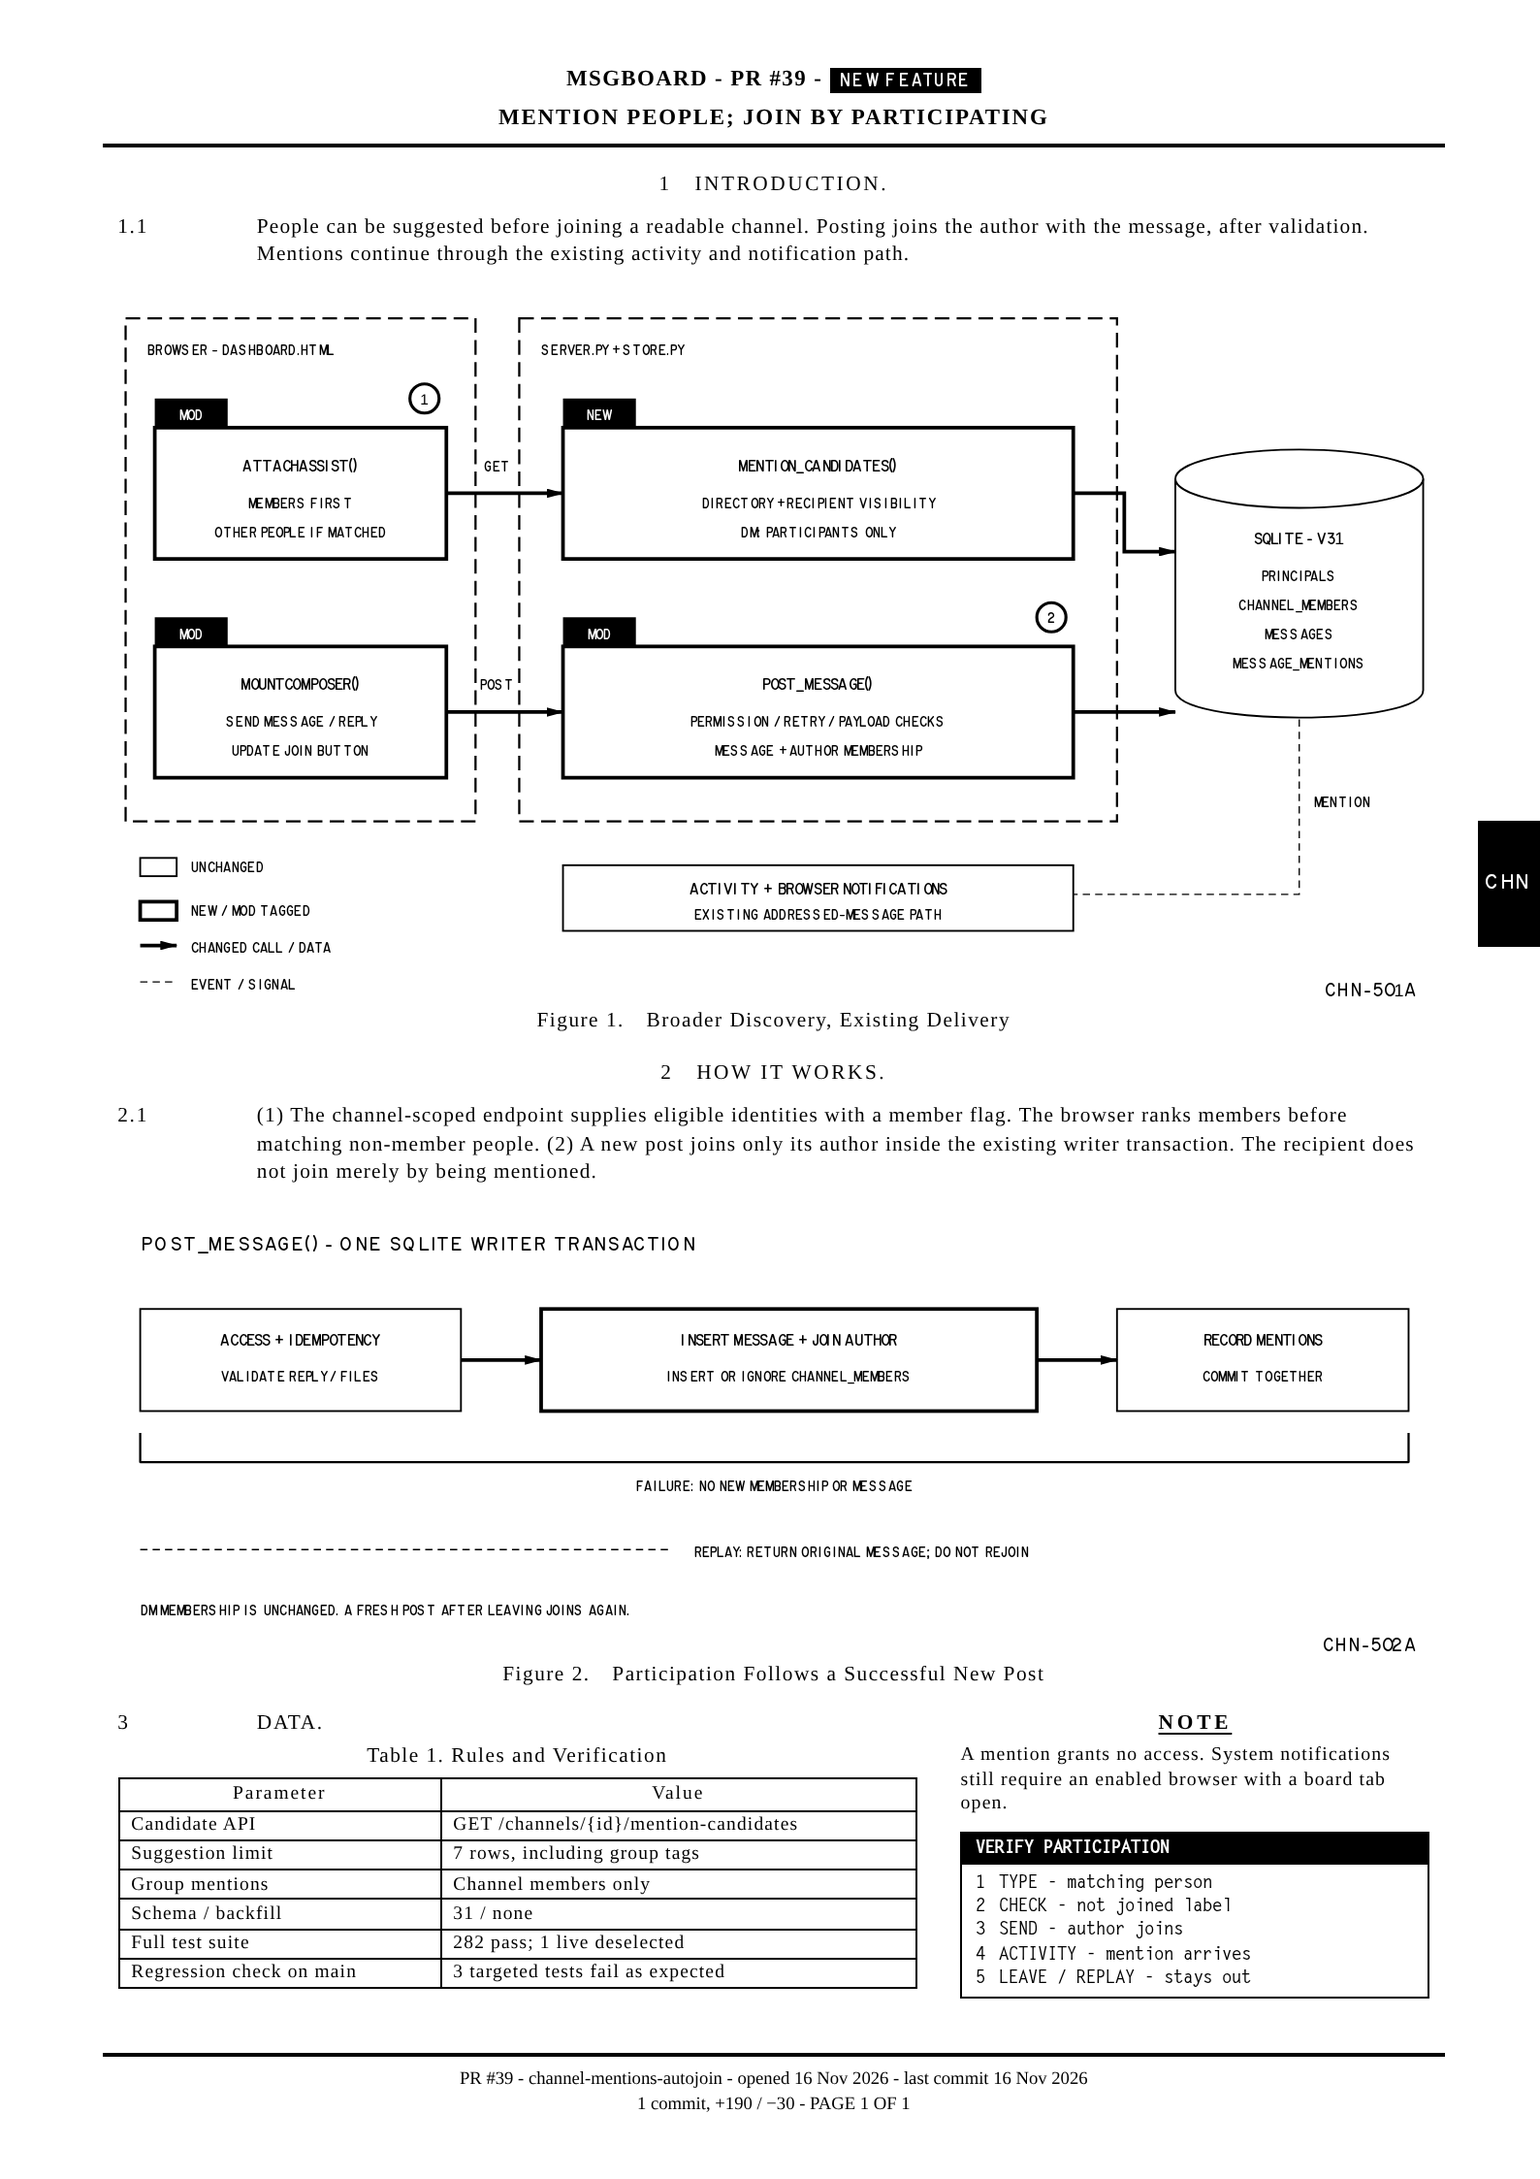
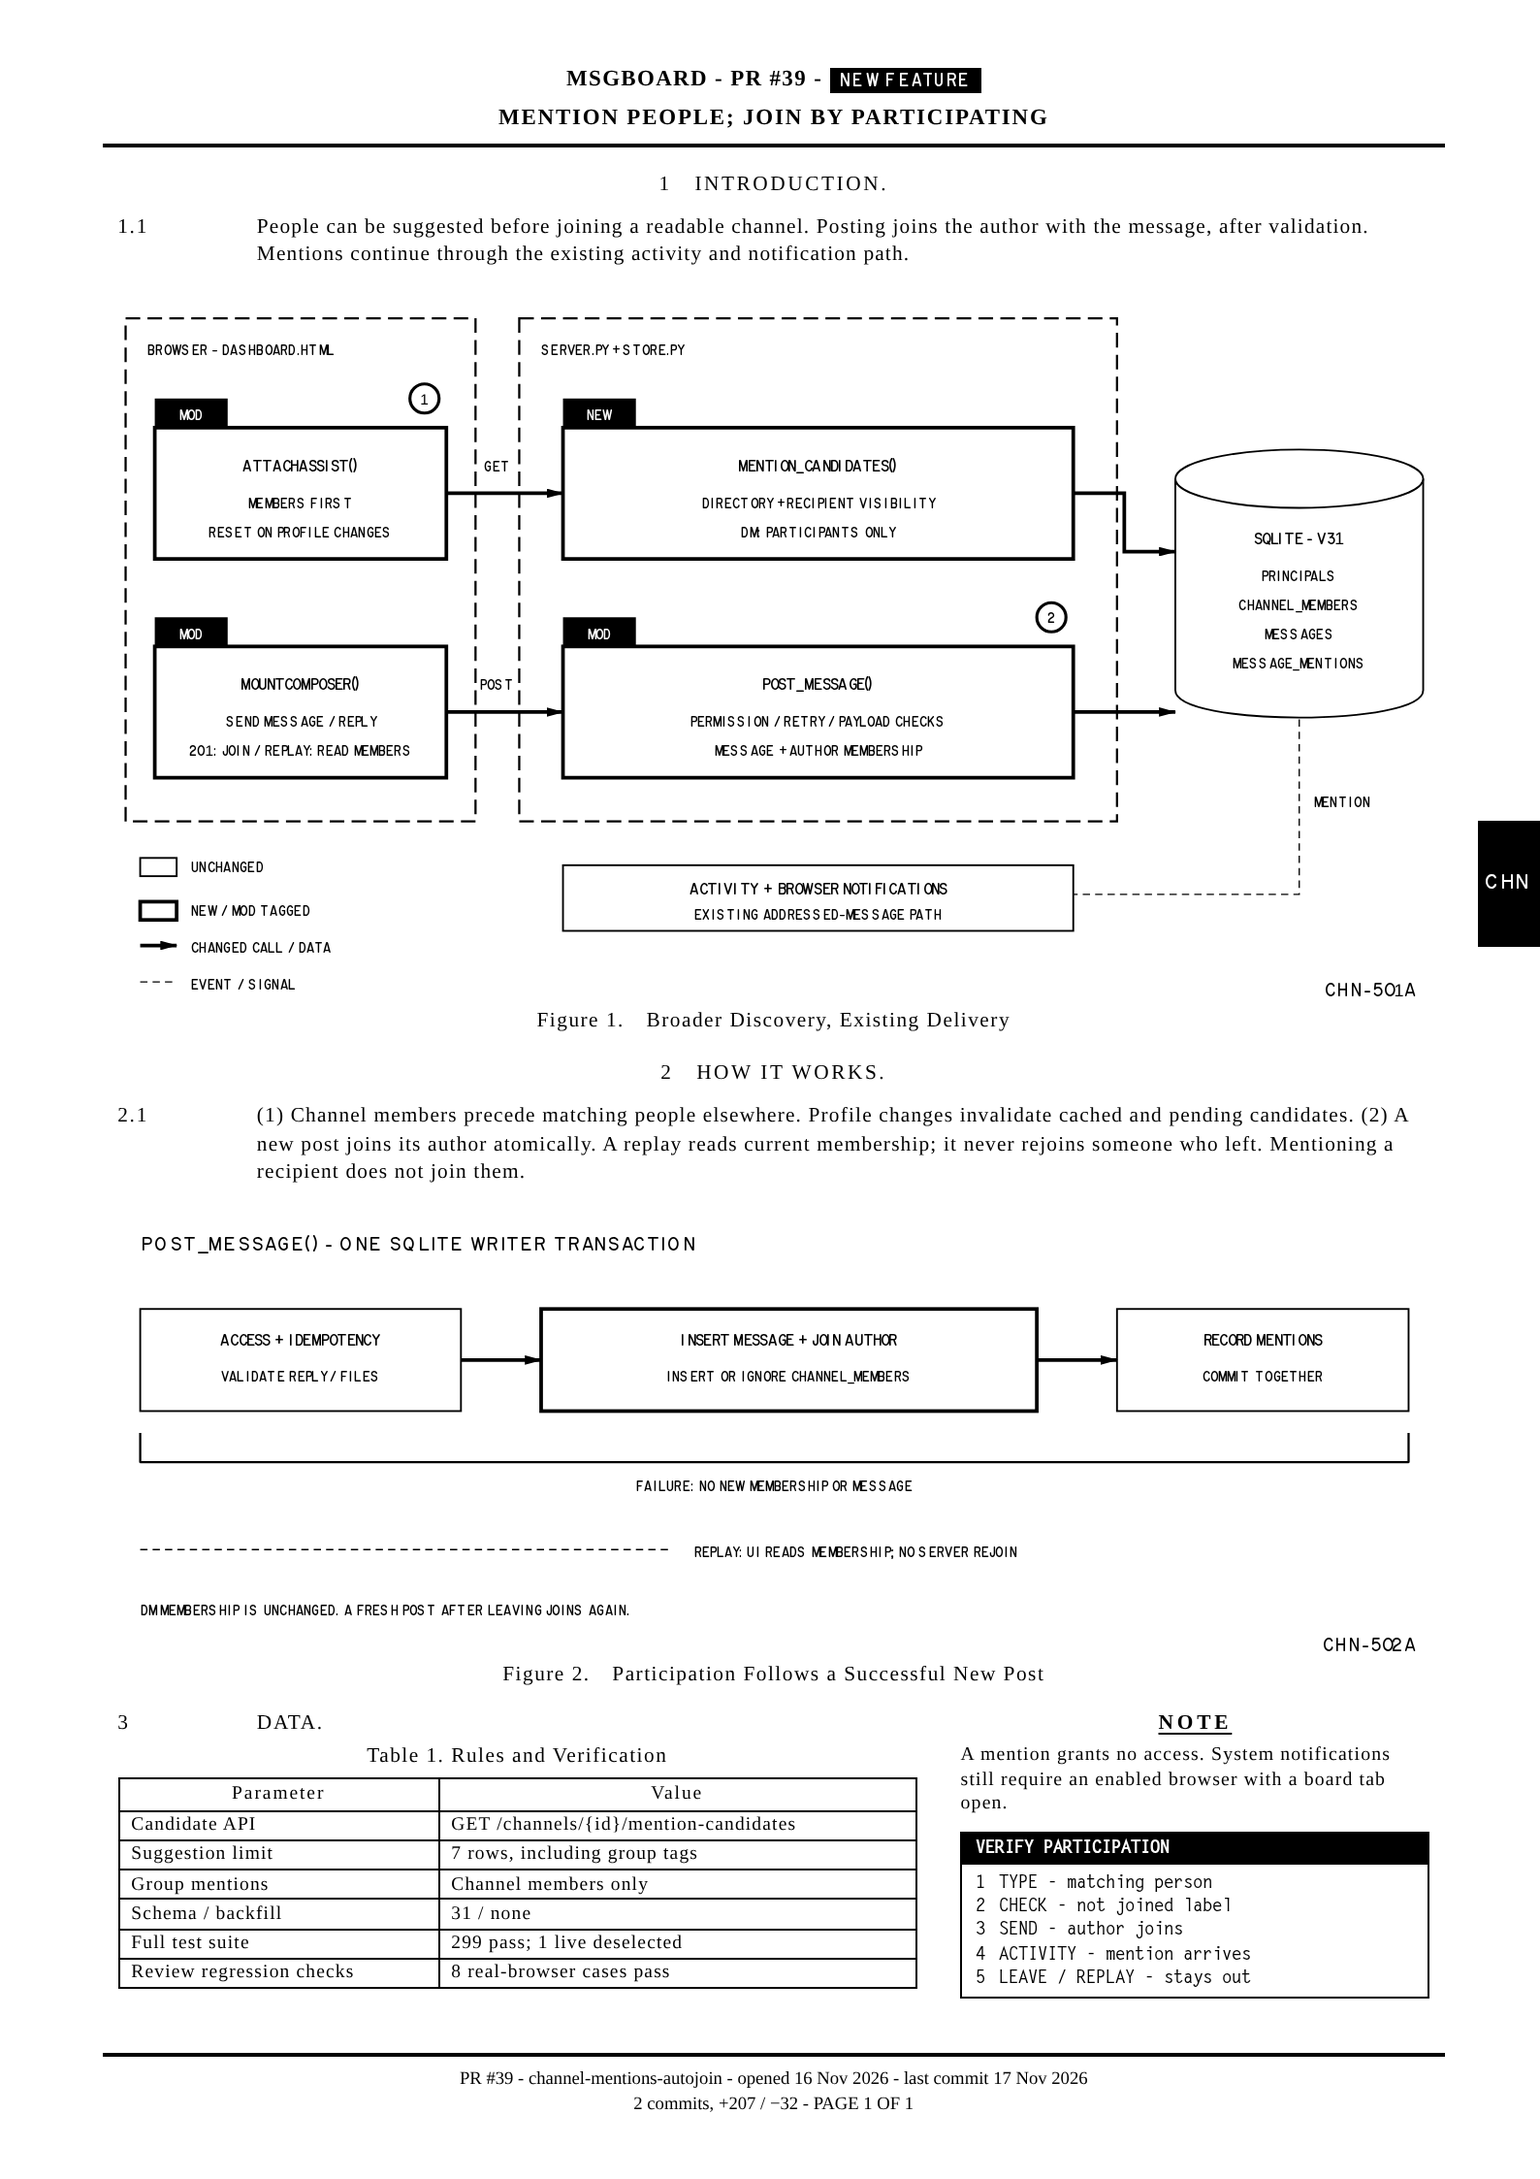
Update PR 39 diagram and browser regressions after review

diff --git a/participation-artifacts/pr-39.html b/participation-artifacts/pr-39.html
@@ -154,13 +154,13 @@
 <rect class="panel" x="1" y="4" width="48" height="69"/><text class="lbl-s" x="4" y="9">BROWSER - DASHBOARD.HTML</text>
 <rect class="panel" x="55" y="4" width="82" height="69"/><text class="lbl-s" x="58" y="9">SERVER.PY + STORE.PY</text>
 <rect class="mod" x="5" y="19" width="40" height="18"/><rect class="tag" x="5" y="15" width="10" height="4"/><text class="lbl-s wt" x="10" y="18" text-anchor="middle">MOD</text>
-<text class="lbl" x="25" y="25" text-anchor="middle">ATTACHASSIST()</text><text class="lbl-s" x="25" y="30" text-anchor="middle">MEMBERS FIRST</text><text class="lbl-s" x="25" y="34" text-anchor="middle">OTHER PEOPLE IF MATCHED</text>
+<text class="lbl" x="25" y="25" text-anchor="middle">ATTACHASSIST()</text><text class="lbl-s" x="25" y="30" text-anchor="middle">MEMBERS FIRST</text><text class="lbl-s" x="25" y="34" text-anchor="middle">RESET ON PROFILE CHANGES</text>
 <circle class="of" cx="42" cy="15" r="2"/><text class="lbl-s" x="42" y="15.8" text-anchor="middle">1</text>
 <rect class="mod" x="61" y="19" width="70" height="18"/><rect class="tag" x="61" y="15" width="10" height="4"/><text class="lbl-s wt" x="66" y="18" text-anchor="middle">NEW</text>
 <text class="lbl" x="96" y="25" text-anchor="middle">MENTION_CANDIDATES()</text><text class="lbl-s" x="96" y="30" text-anchor="middle">DIRECTORY + RECIPIENT VISIBILITY</text><text class="lbl-s" x="96" y="34" text-anchor="middle">DM: PARTICIPANTS ONLY</text>
 <path class="flow" d="M45 28 H61"/><text class="lbl-s" x="52" y="25" text-anchor="middle">GET</text>
 <rect class="mod" x="5" y="49" width="40" height="18"/><rect class="tag" x="5" y="45" width="10" height="4"/><text class="lbl-s wt" x="10" y="48" text-anchor="middle">MOD</text>
-<text class="lbl" x="25" y="55" text-anchor="middle">MOUNTCOMPOSER()</text><text class="lbl-s" x="25" y="60" text-anchor="middle">SEND MESSAGE / REPLY</text><text class="lbl-s" x="25" y="64" text-anchor="middle">UPDATE JOIN BUTTON</text>
+<text class="lbl" x="25" y="55" text-anchor="middle">MOUNTCOMPOSER()</text><text class="lbl-s" x="25" y="60" text-anchor="middle">SEND MESSAGE / REPLY</text><text class="lbl-s" x="25" y="64" text-anchor="middle">201: JOIN / REPLAY: READ MEMBERS</text>
 <rect class="mod" x="61" y="49" width="70" height="18"/><rect class="tag" x="61" y="45" width="10" height="4"/><text class="lbl-s wt" x="66" y="48" text-anchor="middle">MOD</text>
 <text class="lbl" x="96" y="55" text-anchor="middle">POST_MESSAGE()</text><text class="lbl-s" x="96" y="60" text-anchor="middle">PERMISSION / RETRY / PAYLOAD CHECKS</text><text class="lbl-s" x="96" y="64" text-anchor="middle">MESSAGE + AUTHOR MEMBERSHIP</text>
 <circle class="of" cx="128" cy="45" r="2"/><text class="lbl-s" x="128" y="45.8" text-anchor="middle">2</text>
@@ -173,7 +173,7 @@
 <rect class="old" x="3" y="78" width="5" height="2.5"/><text class="lbl-s" x="10" y="80">UNCHANGED</text><rect class="mod" x="3" y="84" width="5" height="2.5"/><text class="lbl-s" x="10" y="86">NEW / MOD TAGGED</text><path class="flow" d="M3 90 H8"/><text class="lbl-s" x="10" y="91">CHANGED CALL / DATA</text><path class="ev" d="M3 95 H8"/><text class="lbl-s" x="10" y="96">EVENT / SIGNAL</text><text class="code" x="178" y="97" text-anchor="end">CHN-501A</text>
 </svg><figcaption><span class="n">Figure 1.</span>Broader Discovery, Existing Delivery</figcaption></figure>
 <div class="opener">2 &nbsp; HOW IT WORKS.</div>
-<section class="para"><div class="num">2.1</div><div><p class="flush">(1) The channel-scoped endpoint supplies eligible identities with a member flag. The browser ranks members before matching non-member people. (2) A new post joins only its author inside the existing writer transaction. The recipient does not join merely by being mentioned.</p></div></section>
+<section class="para"><div class="num">2.1</div><div><p class="flush">(1) Channel members precede matching people elsewhere. Profile changes invalidate cached and pending candidates. (2) A new post joins its author atomically. A replay reads current membership; it never rejoins someone who left. Mentioning a recipient does not join them.</p></div></section>
 <figure><svg viewBox="0 0 180 62" xmlns="http://www.w3.org/2000/svg" role="img" aria-label="A new valid message joins its author atomically; failed posts and replayed requests do not join">
 <text class="lbl-b" x="3" y="6">POST_MESSAGE() - ONE SQLITE WRITER TRANSACTION</text>
 <rect class="old" x="3" y="14" width="44" height="14"/><text class="lbl" x="25" y="19" text-anchor="middle">ACCESS + IDEMPOTENCY</text><text class="lbl-s" x="25" y="24" text-anchor="middle">VALIDATE REPLY / FILES</text>
@@ -181,12 +181,12 @@
 <rect class="old" x="137" y="14" width="40" height="14"/><text class="lbl" x="157" y="19" text-anchor="middle">RECORD MENTIONS</text><text class="lbl-s" x="157" y="24" text-anchor="middle">COMMIT TOGETHER</text>
 <path class="flow" d="M47 21 H58"/><path class="flow" d="M126 21 H137"/>
 <path class="w" d="M3 31 V35 H177 V31"/><text class="lbl-s" x="90" y="39" text-anchor="middle">FAILURE: NO NEW MEMBERSHIP OR MESSAGE</text>
-<path class="ev" d="M3 47 H76"/><text class="lbl-s" x="79" y="48">REPLAY: RETURN ORIGINAL MESSAGE; DO NOT REJOIN</text>
+<path class="ev" d="M3 47 H76"/><text class="lbl-s" x="79" y="48">REPLAY: UI READS MEMBERSHIP; NO SERVER REJOIN</text>
 <text class="lbl-s" x="3" y="56">DM MEMBERSHIP IS UNCHANGED. A FRESH POST AFTER LEAVING JOINS AGAIN.</text><text class="code" x="178" y="61" text-anchor="end">CHN-502A</text>
 </svg><figcaption><span class="n">Figure 2.</span>Participation Follows a Successful New Post</figcaption></figure>
-<div class="lower"><div><section class="para"><div class="num">3</div><div><h2>DATA.</h2></div></section><div class="tcap">Table 1. Rules and Verification</div><table><thead><tr><th>Parameter</th><th>Value</th></tr></thead><tbody><tr><td>Candidate API</td><td>GET /channels/{id}/mention-candidates</td></tr><tr><td>Suggestion limit</td><td>7 rows, including group tags</td></tr><tr><td>Group mentions</td><td>Channel members only</td></tr><tr><td>Schema / backfill</td><td>31 / none</td></tr><tr><td>Full test suite</td><td>282 pass; 1 live deselected</td></tr><tr><td>Regression check on main</td><td>3 targeted tests fail as expected</td></tr></tbody></table></div>
+<div class="lower"><div><section class="para"><div class="num">3</div><div><h2>DATA.</h2></div></section><div class="tcap">Table 1. Rules and Verification</div><table><thead><tr><th>Parameter</th><th>Value</th></tr></thead><tbody><tr><td>Candidate API</td><td>GET /channels/{id}/mention-candidates</td></tr><tr><td>Suggestion limit</td><td>7 rows, including group tags</td></tr><tr><td>Group mentions</td><td>Channel members only</td></tr><tr><td>Schema / backfill</td><td>31 / none</td></tr><tr><td>Full test suite</td><td>299 pass; 1 live deselected</td></tr><tr><td>Review regression checks</td><td>8 real-browser cases pass</td></tr></tbody></table></div>
 <div><div class="notice"><span class="tag">NOTE</span><p>A mention grants no access. System notifications still require an enabled browser with a board tab open.</p></div><div class="card"><div class="bar"><span>VERIFY PARTICIPATION</span></div><ol><li><span>1</span><span>TYPE - matching person</span></li><li><span>2</span><span>CHECK - not joined label</span></li><li><span>3</span><span>SEND - author joins</span></li><li><span>4</span><span>ACTIVITY - mention arrives</span></li><li><span>5</span><span>LEAVE / REPLAY - stays out</span></li></ol></div></div></div>
-<footer class="foot"><div class="rule"></div><div class="source">PR #39 - channel-mentions-autojoin - opened 16 Nov 2026 - last commit 16 Nov 2026<br>1 commit, +190 / −30 - PAGE 1 OF 1</div></footer></div>
+<footer class="foot"><div class="rule"></div><div class="source">PR #39 - channel-mentions-autojoin - opened 16 Nov 2026 - last commit 17 Nov 2026<br>2 commits, +207 / −32 - PAGE 1 OF 1</div></footer></div>
 <script>
   // Fit check: room left between the last content block and the footer.
   // .page hides overflow, so without this an overfull page fails silently.

diff --git a/participation-artifacts/check_review_fixes.py b/participation-artifacts/check_review_fixes.py
@@ -1,0 +1,98 @@
+import json
+import sys
+import tempfile
+from pathlib import Path
+from urllib.parse import urlsplit
+from playwright.sync_api import sync_playwright, expect
+
+sys.path.insert(0, '/home/node/local/git/msgboard-cx')
+from tests.conftest import Env
+
+OUT=Path(__file__).parent
+LIB=OUT.parent/'msgboard-pr15/lib'
+CHROME='/opt/pw-browsers/chromium_headless_shell-1234/chrome-headless-shell-linux64/chrome-headless-shell'
+checks=[];errors=[]
+with tempfile.TemporaryDirectory(prefix='participation-review-',dir='/home/node/local') as tmp:
+ env=Env(Path(tmp)/'board')
+ try:
+  channel=env.op.create_channel('planning')['id']
+  identity,token,sender=env.human('person-b',role='admin',display_name='Person B')
+  bot,_,helper=env.agent('probe-bot',display_name='ProbeOld',channels=['planning'])
+  helper.post(channel,'Review fixture')
+  race=env.op.create_channel('race')['id'];env.op.add_member(race,bot['id']);helper.post(race,'Race fixture')
+  channels={name:env.op.create_channel(name)['id'] for name in ['retry-left','retry-joined','retry-read-error']}
+  with sync_playwright() as pw:
+   b=pw.chromium.launch(executable_path=CHROME,args=['--no-sandbox'])
+   ctx=b.new_context(viewport={'width':1280,'height':850})
+   ctx.add_init_script('localStorage.setItem("msgboard:token",'+json.dumps(token)+');')
+   def lib(route):
+    f=LIB/urlsplit(route.request.url).path.rsplit('/',1)[-1]
+    if f.exists():route.fulfill(content_type='application/javascript',headers={'Access-Control-Allow-Origin':'*'},body=f.read_bytes())
+    else:route.abort()
+   ctx.route('https://cdnjs.cloudflare.com/**',lib)
+   p=ctx.new_page();p.on('pageerror',lambda e:errors.append(str(e)))
+   p.on('dialog',lambda d:d.accept('test suspension'))
+   p.goto(env.url+'/#planning');box=p.locator('#composer textarea');expect(box).to_be_visible();p.wait_for_function('md!==null')
+   def suggestions(query='@probe'):
+    box.fill('');box.fill(query)
+   def profile():
+    p.evaluate('(id)=>openProfile(id)',bot['id']);expect(p.locator('#name-edit')).to_be_visible()
+   def rename(name):
+    p.locator('#name-edit').click();p.locator('#name-input').fill(name);p.locator('#name-form [type=submit]').click()
+    expect(p.locator('#name-row h3')).to_have_text(name)
+   suggestions();expect(p.locator('.mention-pop')).to_contain_text('ProbeOld')
+   profile();rename('ProbeNew');p.locator('#panel-close').click()
+   suggestions();expect(p.locator('.mention-pop')).to_contain_text('ProbeNew');expect(p.locator('.mention-pop')).not_to_contain_text('ProbeOld')
+   suggestions('@ProbeOld');expect(p.locator('.mention-pop')).to_have_count(0)
+   checks.append('profile rename invalidates cached candidates and old name no longer appears')
+   suggestions();expect(p.locator('.mention-pop')).to_contain_text('ProbeNew')
+   profile();p.locator('#pic-menu-btn').click();p.locator('#pic-regen').click();p.locator('#sug-use').click()
+   expect(p.locator('#suggest')).not_to_be_visible();p.locator('#panel-close').click()
+   with p.expect_response(lambda r:'/mention-candidates' in r.url) as refreshed:suggestions()
+   seed=next(c for c in refreshed.value.json()['candidates'] if c['id']==bot['id'])['pattern']
+   assert isinstance(seed,int)
+   checks.append('changing generated picture forces a fresh candidate response with the new pattern')
+   profile();p.locator('#prof-suspend').click();expect(p.locator('#prof-unsuspend')).to_be_visible();p.locator('#panel-close').click()
+   suggestions();expect(p.locator('.mention-pop')).to_have_count(0)
+   checks.append('locally suspended account disappears from already-used channel suggestions')
+   profile();p.locator('#prof-unsuspend').click();expect(p.locator('#prof-suspend')).to_be_visible();p.locator('#panel-close').click()
+   suggestions();expect(p.locator('.mention-pop')).to_contain_text('ProbeNew')
+   checks.append('unsuspending account restores it to suggestions without reopening channel')
+   p.goto(env.url+'/#race');expect(box).to_be_visible();pending=[]
+   pattern='**/v1/channels/'+str(race)+'/mention-candidates'
+   def held(route):pending.append((route,route.fetch()))
+   p.route(pattern,held,times=1);suggestions();p.wait_for_timeout(200);assert pending
+   profile();rename('ProbeLatest');p.locator('#panel-close').click()
+   pending[0][0].fulfill(response=pending[0][1]);p.wait_for_timeout(200)
+   suggestions();expect(p.locator('.mention-pop')).to_contain_text('ProbeLatest');expect(p.locator('.mention-pop')).not_to_contain_text('ProbeNew')
+   checks.append('candidate fetch held across a profile rename cannot repopulate stale cache')
+   for name,cid in channels.items():
+    p.goto(env.url+'/#'+name);expect(box).to_be_visible();expect(p.locator('#ch-join')).to_be_visible()
+    seen=[];pattern='**/v1/channels/'+str(cid)+'/messages'
+    def lost(route):
+     if route.request.method!='POST':return route.continue_()
+     seen.append(route.request.headers.get('idempotency-key'))
+     if len(seen)==1:
+      reply=route.fetch();assert reply.status==201
+      if name!='retry-joined':sender.remove_member(cid,identity['id'])
+      route.abort('failed')
+     else:route.continue_()
+    p.route(pattern,lost)
+    fail_pattern='**/v1/channels/'+str(cid)+'/members'
+    if name=='retry-read-error':p.route(fail_pattern,lambda r:r.fulfill(status=503,json={'error':{'code':'busy','message':'busy'}}),times=1)
+    box.fill('A single message despite the lost response.');p.locator('#composer .btn').click();expect(box).to_have_value('')
+    assert len(seen)==2 and len(set(seen))==1
+    assert len(env.op.read(cid)['messages'])==1
+    actual=next(c for c in sender.list_channels() if c['id']==cid)['member']
+    assert actual==(name=='retry-joined')
+    if actual:expect(p.locator('#ch-join')).not_to_be_visible()
+    else:expect(p.locator('#ch-join')).to_be_visible()
+    if name=='retry-left':p.screenshot(path=str(OUT/'replay-left.png'))
+    checks.append(name+': one message, two same-key POST attempts; UI matches authoritative membership')
+    p.unroute(pattern)
+    if name=='retry-read-error':p.unroute(fail_pattern)
+   assert not errors,errors
+   b.close()
+ finally:env.close()
+result={'checks':checks,'page_errors':errors}
+(OUT/'review-fixes-results.json').write_text(json.dumps(result,indent=2));print(json.dumps(result,indent=2))
